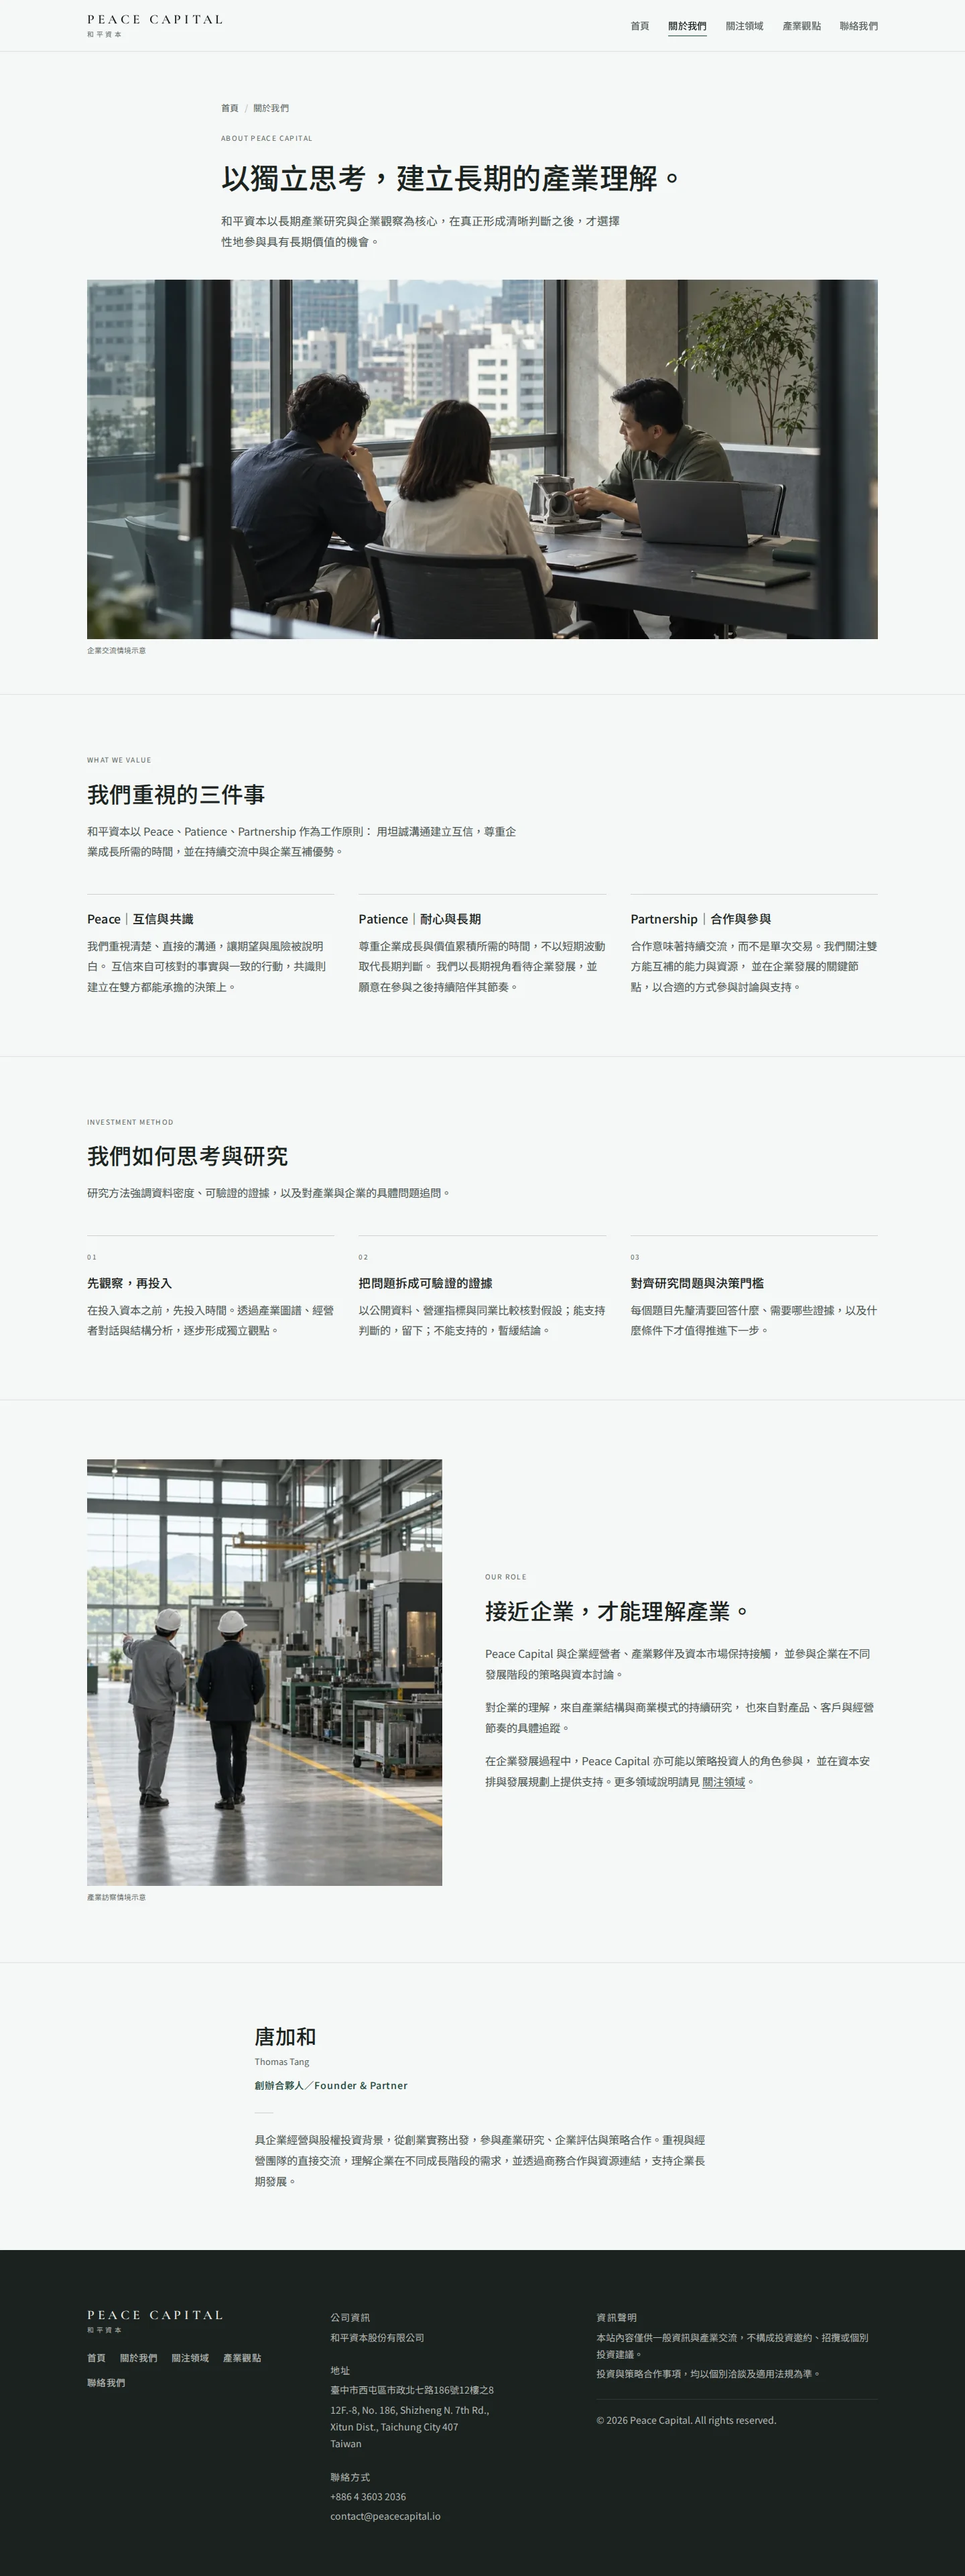
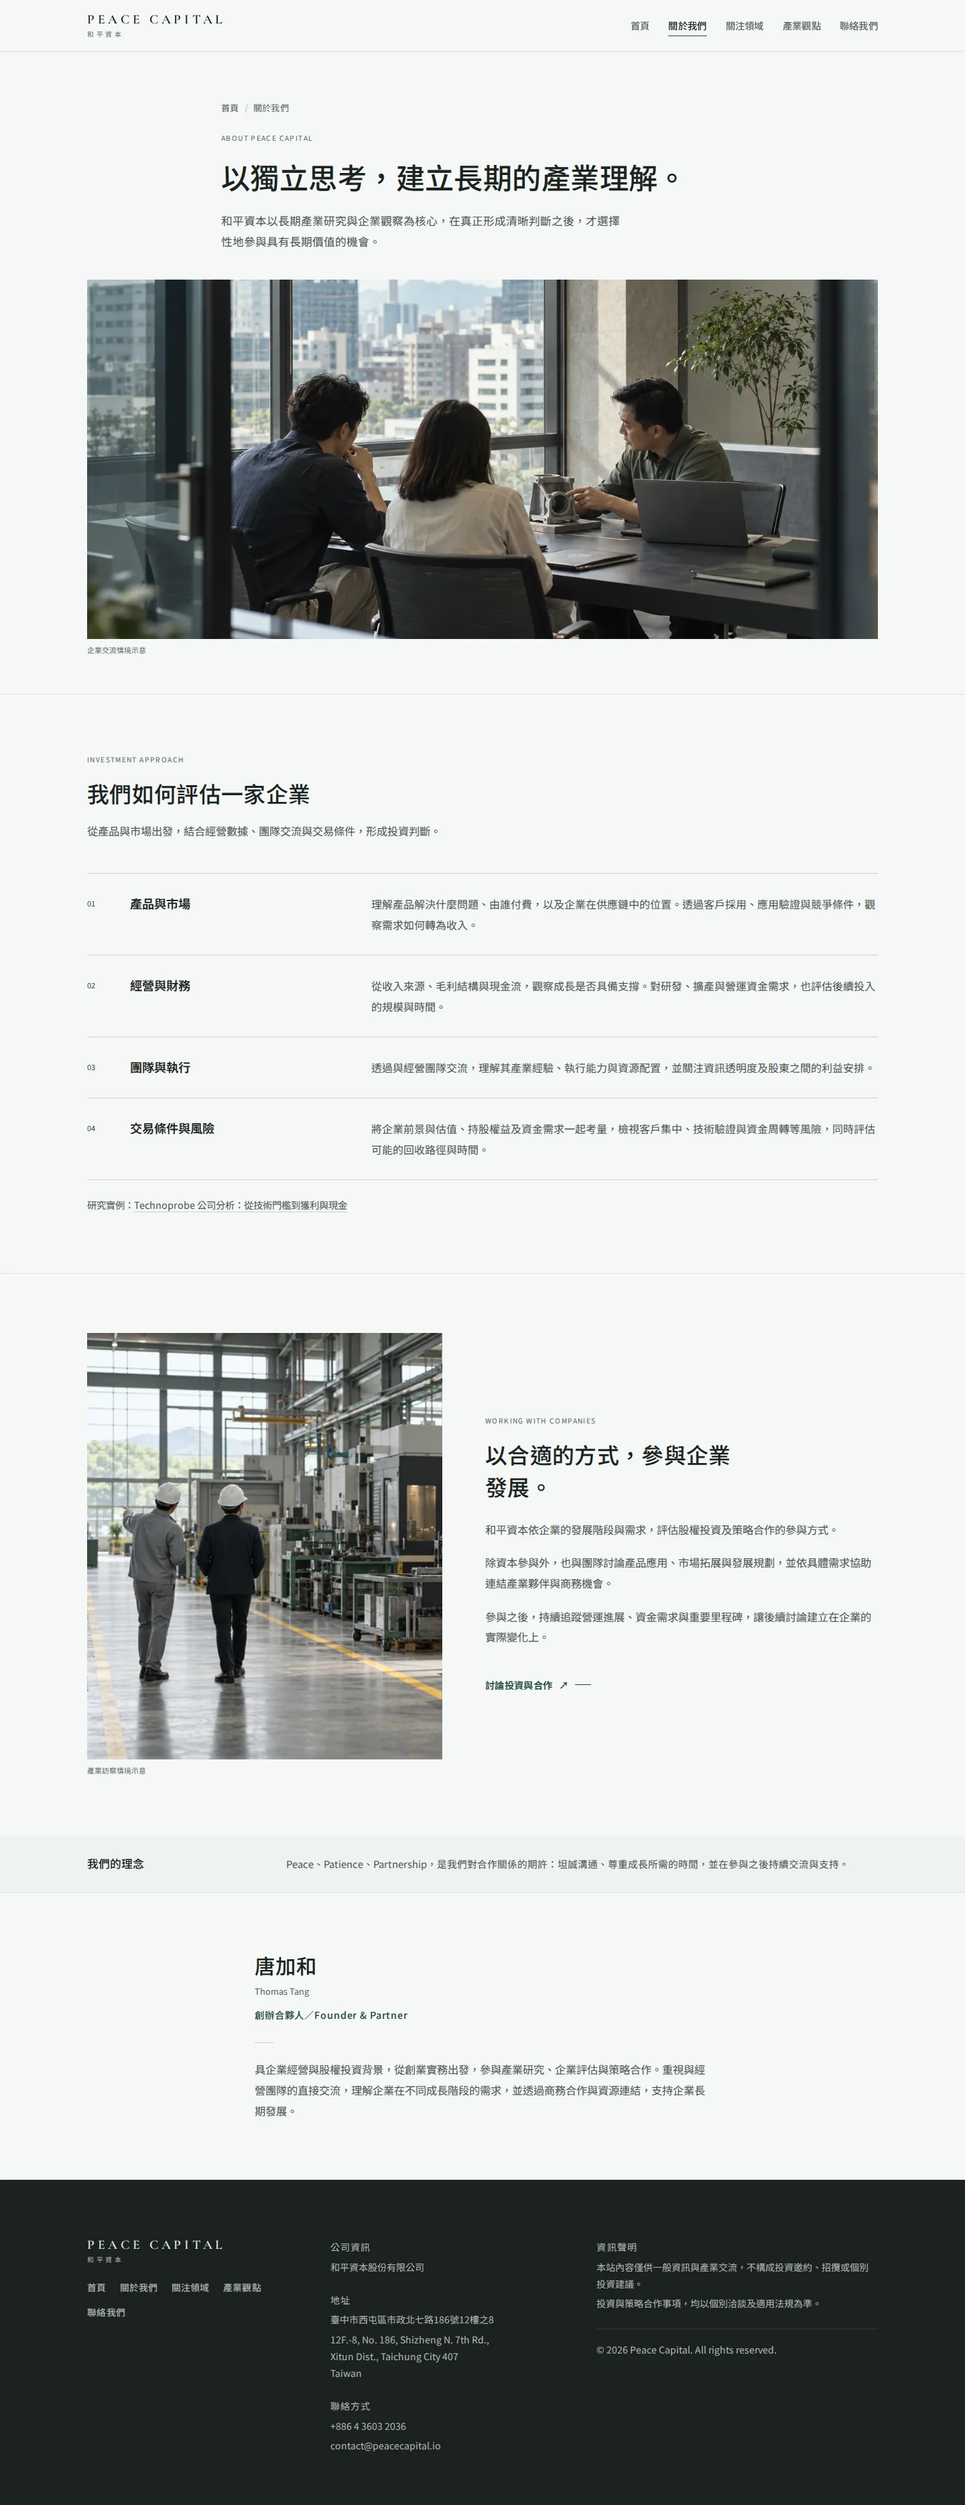
Prioritize investment assessment and company engagement; make 3P secondary

diff --git a/about/index.html b/about/index.html
@@ -6,7 +6,7 @@
 
   <title>About | Peace Capital 和平資本</title>
 
-  <meta name="description" content="了解 Peace Capital（和平資本）的理念、研究方法與企業參與方式——以互信、耐心與合作推進長期判斷。">
+  <meta name="description" content="了解和平資本的投資方法、企業評估重點與合作方式：從產品市場、經營財務、團隊執行與交易條件，形成獨立判斷。">
   <meta name="author" content="Peace Capital">
   <meta name="robots" content="index, follow">
   <meta name="theme-color" content="#fafaf8">
@@ -17,7 +17,7 @@
 
   <meta property="og:type" content="website">
   <meta property="og:title" content="About | Peace Capital 和平資本">
-  <meta property="og:description" content="Peace, Patience, Partnership — Peace Capital’s philosophy, research method, and how we work with companies.">
+  <meta property="og:description" content="How Peace Capital assesses businesses, forms investment judgments, and works with management teams.">
   <meta property="og:url" content="https://peacecapital.io/about/">
   <meta property="og:image" content="https://peacecapital.io/assets/img/og-image.png">
   <meta property="og:site_name" content="Peace Capital">
@@ -25,7 +25,7 @@
 
   <meta name="twitter:card" content="summary_large_image">
   <meta name="twitter:title" content="About | Peace Capital 和平資本">
-  <meta name="twitter:description" content="Peace, Patience, Partnership — Peace Capital’s philosophy, research method, and how we work with companies.">
+  <meta name="twitter:description" content="How Peace Capital assesses businesses, forms investment judgments, and works with management teams.">
   <meta name="twitter:image" content="https://peacecapital.io/assets/img/og-image.png">
 
   <link rel="icon" type="image/svg+xml" href="/favicon.svg">
@@ -33,7 +33,7 @@
   <link rel="shortcut icon" href="/favicon.ico">
   <link rel="apple-touch-icon" sizes="180x180" href="/apple-touch-icon.png">
   <link rel="manifest" href="/site.webmanifest">
-  <link rel="stylesheet" href="/assets/css/style.css?v=20261024-about-images">
+  <link rel="stylesheet" href="/assets/css/style.css?v=20261024-approach">
 
   <script type="application/ld+json">
   {
@@ -41,7 +41,7 @@
     "@type": "AboutPage",
     "name": "About | Peace Capital",
     "url": "https://peacecapital.io/about/",
-    "description": "Peace Capital’s philosophy, research method, and how we work with companies.",
+    "description": "Peace Capital’s investment approach, business assessment, and company engagement.",
     "isPartOf": {
       "@type": "WebSite",
       "name": "Peace Capital",
@@ -121,80 +121,45 @@
       </div>
     </section>
 
-    <section class="section reveal" id="philosophy" aria-labelledby="philosophy-title">
+    <section class="section reveal" id="investment-approach" aria-labelledby="method-title">
       <div class="container">
         <div class="section-intro">
-          <p class="section-label">What We Value</p>
-          <h2 id="philosophy-title" class="section-title">我們重視的三件事</h2>
-          <p class="section-text">
-            和平資本以 Peace、Patience、Partnership 作為工作原則：
-            用坦誠溝通建立互信，尊重企業成長所需的時間，並在持續交流中與企業互補優勢。
-          </p>
+          <p class="section-label">Investment Approach</p>
+          <h2 id="method-title" class="section-title">我們如何評估一家企業</h2>
+          <p class="section-text">從產品與市場出發，結合經營數據、團隊交流與交易條件，形成投資判斷。</p>
         </div>
 
-        <div class="method-grid">
-          <article class="method-item">
-            <h3>Peace｜互信與共識</h3>
-            <p>
-              我們重視清楚、直接的溝通，讓期望與風險被說明白。
-              互信來自可核對的事實與一致的行動，共識則建立在雙方都能承擔的決策上。
-            </p>
-          </article>
-
-          <article class="method-item">
-            <h3>Patience｜耐心與長期</h3>
-            <p>
-              尊重企業成長與價值累積所需的時間，不以短期波動取代長期判斷。
-              我們以長期視角看待企業發展，並願意在參與之後持續陪伴其節奏。
-            </p>
-          </article>
-
-          <article class="method-item">
-            <h3>Partnership｜合作與參與</h3>
-            <p>
-              合作意味著持續交流，而不是單次交易。我們關注雙方能互補的能力與資源，
-              並在企業發展的關鍵節點，以合適的方式參與討論與支持。
-            </p>
-          </article>
-        </div>
-      </div>
-    </section>
-
-    <section class="section reveal" aria-labelledby="method-title">
-      <div class="container">
-        <div class="section-intro">
-          <p class="section-label">Investment Method</p>
-          <h2 id="method-title" class="section-title">我們如何思考與研究</h2>
-          <p class="section-text">
-            研究方法強調資料密度、可驗證的證據，以及對產業與企業的具體問題追問。
-          </p>
-        </div>
-
-        <div class="method-grid">
-          <article class="method-item">
-            <span class="method-index">01</span>
-            <h3>先觀察，再投入</h3>
-            <p>
-              在投入資本之前，先投入時間。透過產業圖譜、經營者對話與結構分析，逐步形成獨立觀點。
-            </p>
-          </article>
-
-          <article class="method-item">
-            <span class="method-index">02</span>
-            <h3>把問題拆成可驗證的證據</h3>
-            <p>
-              以公開資料、營運指標與同業比較核對假設；能支持判斷的，留下；不能支持的，暫緩結論。
-            </p>
-          </article>
-
-          <article class="method-item">
-            <span class="method-index">03</span>
-            <h3>對齊研究問題與決策門檻</h3>
-            <p>
-              每個題目先釐清要回答什麼、需要哪些證據，以及什麼條件下才值得推進下一步。
-            </p>
-          </article>
-        </div>
+        <ol class="investment-criteria">
+          <li>
+            <span class="criterion-index" aria-hidden="true">01</span>
+            <div class="criterion-copy">
+              <h3>產品與市場</h3>
+              <p>理解產品解決什麼問題、由誰付費，以及企業在供應鏈中的位置。透過客戶採用、應用驗證與競爭條件，觀察需求如何轉為收入。</p>
+            </div>
+          </li>
+          <li>
+            <span class="criterion-index" aria-hidden="true">02</span>
+            <div class="criterion-copy">
+              <h3>經營與財務</h3>
+              <p>從收入來源、毛利結構與現金流，觀察成長是否具備支撐。對研發、擴產與營運資金需求，也評估後續投入的規模與時間。</p>
+            </div>
+          </li>
+          <li>
+            <span class="criterion-index" aria-hidden="true">03</span>
+            <div class="criterion-copy">
+              <h3>團隊與執行</h3>
+              <p>透過與經營團隊交流，理解其產業經驗、執行能力與資源配置，並關注資訊透明度及股東之間的利益安排。</p>
+            </div>
+          </li>
+          <li>
+            <span class="criterion-index" aria-hidden="true">04</span>
+            <div class="criterion-copy">
+              <h3>交易條件與風險</h3>
+              <p>將企業前景與估值、持股權益及資金需求一起考量，檢視客戶集中、技術驗證與資金周轉等風險，同時評估可能的回收路徑與時間。</p>
+            </div>
+          </li>
+        </ol>
+        <p class="approach-evidence">研究實例：<a href="/insights/companies/technoprobe/">Technoprobe 公司分析：從技術門檻到獲利與現金</a></p>
       </div>
     </section>
 
@@ -212,23 +177,21 @@
             <figcaption>產業訪察情境示意</figcaption>
           </figure>
           <div class="about-role-copy">
-            <p class="section-label">Our Role</p>
-            <h2 id="role-title" class="section-title">接近企業，才能理解產業。</h2>
-            <p class="section-text">
-              Peace Capital 與企業經營者、產業夥伴及資本市場保持接觸，
-              並參與企業在不同發展階段的策略與資本討論。
-            </p>
-            <p class="section-text">
-              對企業的理解，來自產業結構與商業模式的持續研究，
-              也來自對產品、客戶與經營節奏的具體追蹤。
-            </p>
-            <p class="section-text">
-              在企業發展過程中，Peace Capital 亦可能以策略投資人的角色參與，
-              並在資本安排與發展規劃上提供支持。更多領域說明請見
-              <a class="about-inline" href="/focus/">關注領域</a>。
-            </p>
+            <p class="section-label">Working with Companies</p>
+            <h2 id="role-title" class="section-title">以合適的方式，參與企業發展。</h2>
+            <p class="section-text">和平資本依企業的發展階段與需求，評估股權投資及策略合作的參與方式。</p>
+            <p class="section-text">除資本參與外，也與團隊討論產品應用、市場拓展與發展規劃，並依具體需求協助連結產業夥伴與商務機會。</p>
+            <p class="section-text">參與之後，持續追蹤營運進展、資金需求與重要里程碑，讓後續討論建立在企業的實際變化上。</p>
+            <a class="text-link" href="/contact/">討論投資與合作 <span aria-hidden="true">↗</span></a>
           </div>
         </div>
+      </div>
+    </section>
+
+    <section class="about-principles" id="philosophy" aria-labelledby="philosophy-title">
+      <div class="container about-principles-layout">
+        <h2 id="philosophy-title">我們的理念</h2>
+        <p>Peace、Patience、Partnership，是我們對合作關係的期許：坦誠溝通、尊重成長所需的時間，並在參與之後持續交流與支持。</p>
       </div>
     </section>
 

diff --git a/index.html b/index.html
@@ -43,7 +43,7 @@
   <link rel="apple-touch-icon" sizes="180x180" href="/apple-touch-icon.png">
   <link rel="manifest" href="/site.webmanifest">
 
-  <link rel="stylesheet" href="/assets/css/style.css?v=20261024-sectors">
+  <link rel="stylesheet" href="/assets/css/style.css?v=20261024-approach">
 
   <script type="application/ld+json">
   {
@@ -152,28 +152,26 @@
       </div>
     </section>
 
-    <section class="section section-ink reveal" aria-labelledby="belief-title">
+    <section class="section section-ink reveal" aria-labelledby="investment-preview-title">
       <div class="container">
         <div class="section-intro section-intro-on-ink">
-          <p class="section-label">What We Value</p>
-          <h2 id="belief-title" class="section-title">我們重視的三件事</h2>
-          <a class="text-link text-link-on-ink" href="/about/#philosophy">了解我們的理念</a>
+          <p class="section-label">Investment Approach</p>
+          <h2 id="investment-preview-title" class="section-title">從企業本身，建立投資判斷。</h2>
+          <a class="text-link text-link-on-ink" href="/about/#investment-approach">了解投資方法</a>
         </div>
 
-        <div class="method-grid principles-grid">
+        <div class="method-grid">
           <article class="method-item">
-            <h3>Peace｜互信與共識</h3>
-            <p>以坦誠溝通建立信任，讓雙方在重要決策上形成共識。</p>
+            <h3>產品與市場</h3>
+            <p>從產品解決的問題、客戶採用與產業位置，理解企業的價值來源。</p>
           </article>
-
           <article class="method-item">
-            <h3>Patience｜耐心與長期</h3>
-            <p>尊重企業成長與價值累積所需的時間，以長期視角看待企業發展。</p>
+            <h3>經營與財務</h3>
+            <p>結合收入、獲利與現金需求，評估成長條件、資本投入及交易價格。</p>
           </article>
-
           <article class="method-item">
-            <h3>Partnership｜合作與參與</h3>
-            <p>透過持續交流與優勢互補，與企業共同推進長期發展。</p>
+            <h3>團隊與執行</h3>
+            <p>關注經營團隊的執行能力、資訊透明度，以及股東與企業的合作基礎。</p>
           </article>
         </div>
       </div>

diff --git a/assets/css/style.css b/assets/css/style.css
@@ -506,6 +506,7 @@ summary:focus-visible,
 }
 
 #philosophy,
+#investment-approach,
 #founder {
   scroll-margin-top: 96px;
 }
@@ -831,6 +832,20 @@ summary:focus-visible,
 }
 
 /* About: dialogue at the opening, fieldwork alongside our role. */
+.investment-criteria { list-style: none; margin: 0; padding: 0; border-top: 1px solid var(--line-strong); }
+.investment-criteria > li { display: grid; grid-template-columns: 40px minmax(0, 1fr); gap: 24px; padding: 30px 0; border-bottom: 1px solid var(--line-strong); }
+.criterion-index { padding-top: 4px; color: var(--accent); font: 0.78rem/1.8 var(--font-en); font-variant-numeric: tabular-nums; }
+.criterion-copy { display: grid; grid-template-columns: minmax(160px, 0.65fr) minmax(0, 1.5fr); gap: 32px; }
+.criterion-copy h3 { color: var(--text); font-size: 1.14rem; font-weight: 600; line-height: 1.6; }
+.criterion-copy p { color: var(--muted); font-size: 1rem; line-height: 1.9; }
+.approach-evidence { margin-top: 24px; color: var(--muted); font-size: 0.9rem; line-height: 1.85; }
+.approach-evidence a { text-decoration: underline; text-decoration-color: var(--line-strong); text-underline-offset: 4px; }
+.approach-evidence a:hover { color: var(--accent); text-decoration-color: currentColor; }
+.about-principles { padding: 28px 0; background: var(--bg-soft); }
+.about-principles-layout { display: grid; grid-template-columns: minmax(140px, 0.3fr) minmax(0, 1fr); gap: 32px; align-items: baseline; }
+.about-principles h2 { color: var(--text); font-size: 1.05rem; font-weight: 500; line-height: 1.65; }
+.about-principles p { color: var(--muted); font-size: 0.92rem; line-height: 1.9; }
+
 .about-page .page-hero .about-opening-media {
   max-width: var(--container);
   margin-top: 40px;
@@ -853,6 +868,9 @@ summary:focus-visible,
 }
 
 @media (max-width: 900px) {
+  .investment-criteria > li { grid-template-columns: 28px minmax(0, 1fr); gap: 16px; padding: 24px 0; }
+  .criterion-copy { grid-template-columns: 1fr; gap: 10px; }
+  .about-principles-layout { grid-template-columns: 1fr; gap: 12px; }
   .about-page .page-hero .about-opening-media { margin-top: 28px; }
   .about-dialogue-frame { aspect-ratio: 3 / 2; }
   .about-role-layout { grid-template-columns: 1fr; gap: 28px; }
